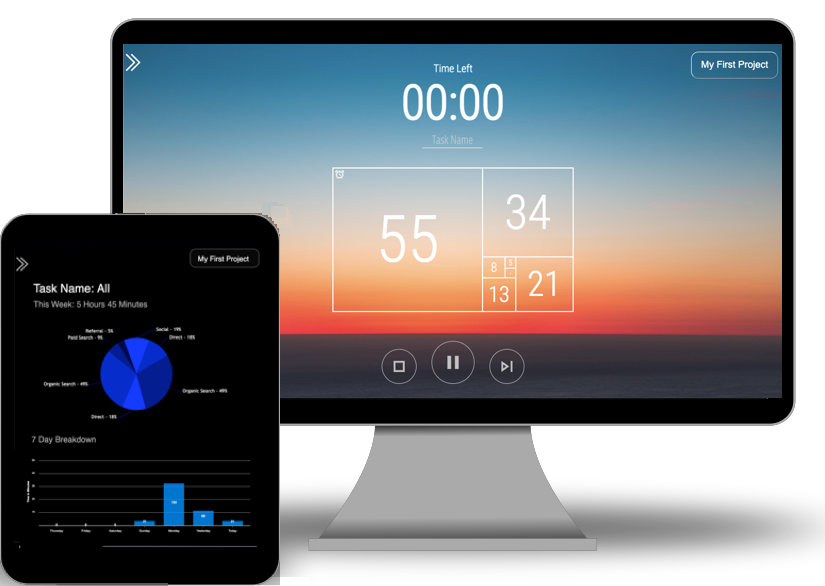
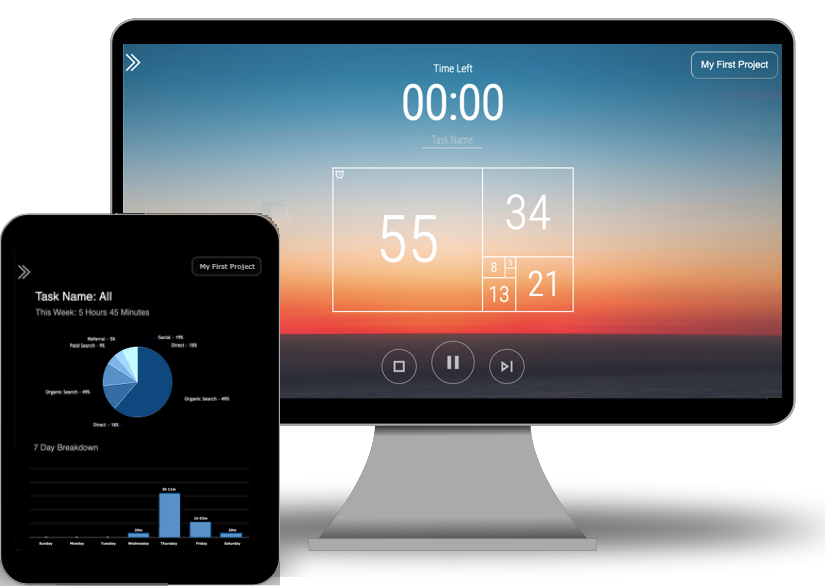
improve landing page

diff --git a/src/App/App.js b/src/App/App.js
@@ -11,8 +11,6 @@ import APIService from '../api-services';
 import Sidebar from '../Sidebar/sidebar'
 import '../Sidebar/sidebar.css'
 
-
-
 class App extends Component {
   constructor(props) {
     super(props);
@@ -25,11 +23,18 @@ class App extends Component {
     tasks: []
   }
 
+  //you need to get all the projects to display them in the dropdown no matter what
+  //but the task you only need for the current project (to display in the task bar)
+  //and requrey when project is changed
+  //right now, selecting a task changes how the tasks are filtered here in app.js
+  //it should re-query (remember you're just getting the names but still)
+
   handleAPIRequest = (account_id) => {
     Promise.all([
       fetch(`${config.API_ENDPOINT}/account/${account_id}`),
       fetch(`${config.API_ENDPOINT}/project/account/${account_id}`),
       fetch(`${config.API_ENDPOINT}/pref/account/${account_id}`),
+
       fetch(`${config.API_ENDPOINT}/task/account/${account_id}`),
     ])
       .then(([accountRes, projectRes, prefsRes, tasksRes]) => {

diff --git a/src/Splash/Splash.js b/src/Splash/Splash.js
@@ -165,7 +165,7 @@ class Splash extends Component {
               <div className="col centered-text">
                 <div className="inner">
                   <h3 className="card-title">Unbounded Timeframes</h3>
-                  <p>No thought is given upfront to how long a task should take, which can lead to it dragging out longer than necessary.</p>
+                  <p>No thought is given upfront to how long a task should take, which means some tasks drag on longer than necesary, while others don't get enough focus.</p>
                 </div>
               </div>
               <div className="col centered-text">

diff --git a/src/Tracking/PieChart/PieChart.js b/src/Tracking/PieChart/PieChart.js
@@ -7,12 +7,20 @@ var CanvasJSChart = CanvasJSReact.CanvasJSChart;
 var CanvasJS = CanvasJSReact.CanvasJS;
 
 CanvasJS.addColorSet("colorset1",
+
 [
-	"#1500ff",
-	"#0700cc",
-	"#050090",
-	"#03004b"
-       
+
+	'#15447a',
+	'#2f77bd',
+	'#3788d0',
+	'#419ce5',
+	'#48a9f4',
+	'#4fb6f6',
+	'#57c2f7',
+	'#80d3f9',
+	'#b2e4fb',
+	'#e0f5fd'
+
    ]);
 
 

diff --git a/src/Tracking/Chart/Chart.js b/src/Tracking/Chart/Chart.js
@@ -68,6 +68,7 @@ class BarChart extends Component {
         fill: {
           opacity: 0.8,
           type: 'solid',
+          colors: '#48a9f4',
 
           pattern: {
             style: ['verticalLines', 'horizontalLines'],
